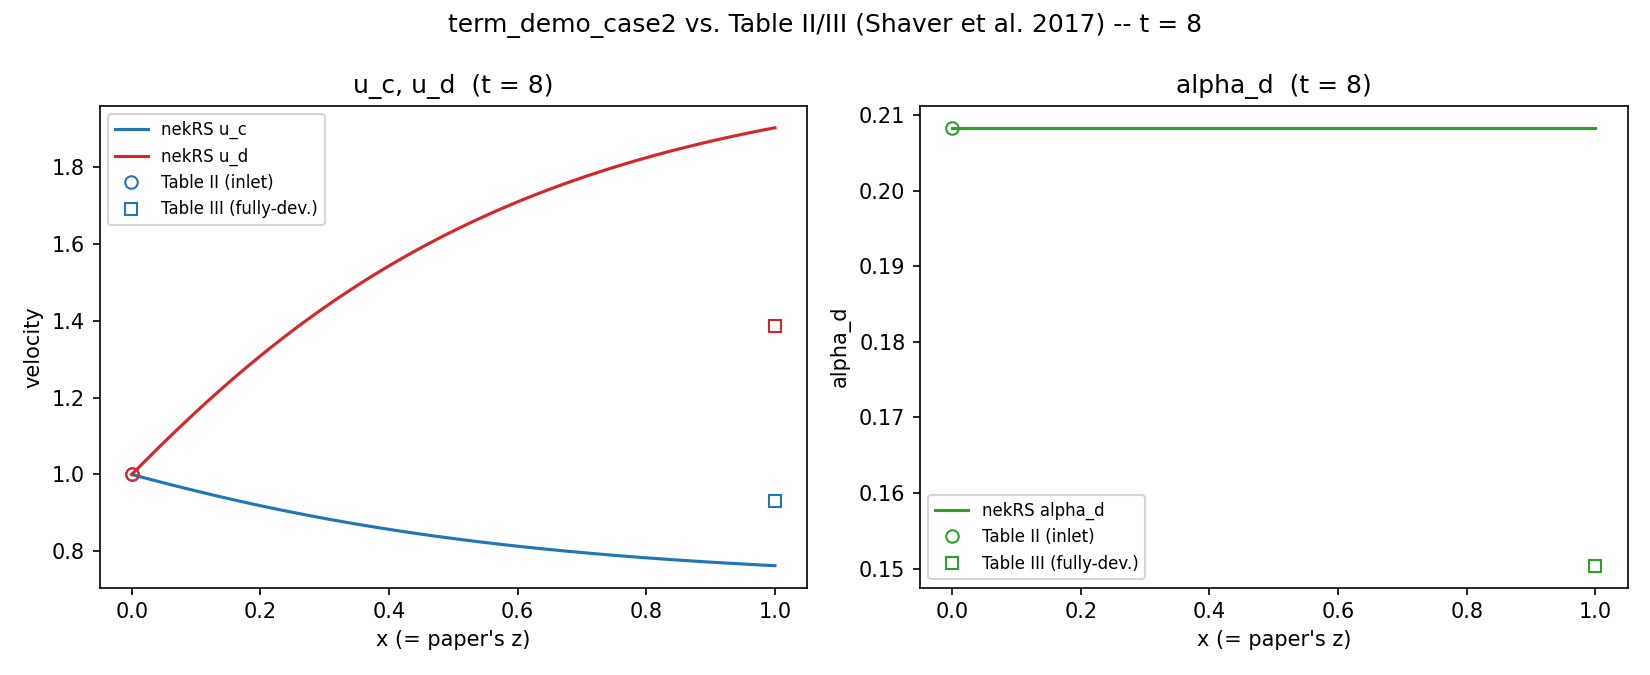
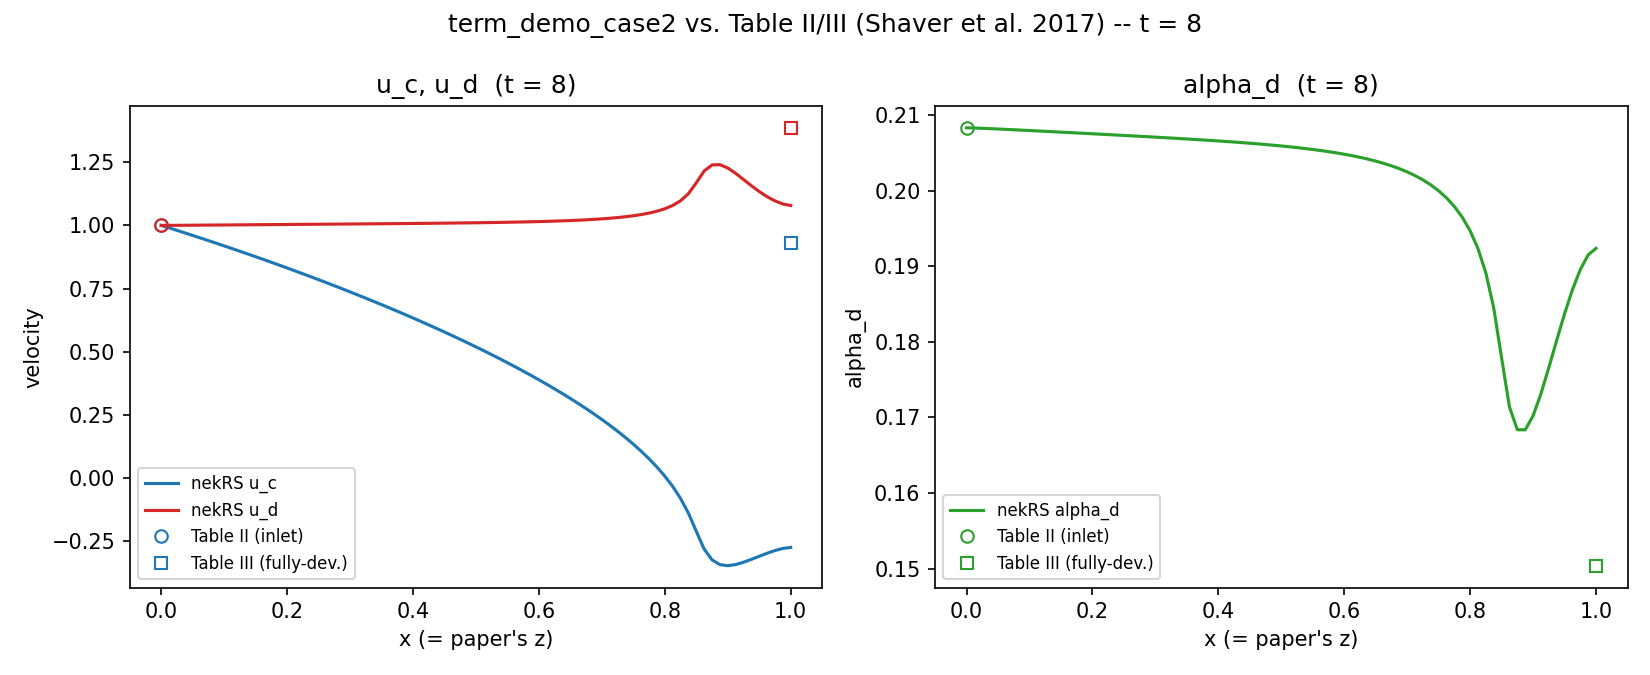
2-phase: case2 eq90 dilation-term retry #2 (Plan K/L); case1 N=9 npz tooling
case2.udf: re-enables the eq 90 dilation term (scalar_t::
userImplicitLinearTerm), this time with the (v2) text's own
instruction followed -- alphaDilationImplicit() now builds a one-off
EXTRAPOLATED u_d (UDF-local EXT-combination of fluid->o_U_phases[1]'s
history) instead of retry #1's lagged/current value. Diagnostic
(DBGDIV) kept for comparison against retry #1's known t~0.226 blowup.

case2.par: extended numSteps 32000->128000 (T=8->T=32) to check
whether the T=8 "success" was a converged steady state (it wasn't --
see run_T32_blowup.log, kept on disk, gitignored like other *.log
files: still blows up, just delayed to t~7.75-8, ~35x later than
retry #1). ioSample 800->1600 for a denser time-history over the
longer run.

New: plot_case2_timehistory.py -- outlet u_c/u_d/alpha_d vs time, plus
a per-phase mass-flux (alpha_k*u_k) conservation check against the
paper's own eq 14/15 (constant mass flux per phase at steady state).
Shows alpha_d*u_d staying almost exactly conserved (the dilation term
working correctly) while alpha_c*u_c drifts badly -- the direct
evidence for the div(u_bar) closure gap documented in
wk_claude/notes/07_algorithm_pseudocode.md.

case1: save_case1_npz.py (new) regenerates n{7,9}_{final,timeseries}.npz
from the current directory's .vts dumps, for plot_case1_figs.py's
N=7-vs-N=9 overlay; re-ran both N after Plan K/L, bit-identical to the
Plan J baseline (outlet error 7.1526e-05 exactly) as expected (case1's
[…]

diff --git a/examples_2phases/term_demo_case2/plot_case2_timehistory.py b/examples_2phases/term_demo_case2/plot_case2_timehistory.py
@@ -1,0 +1,89 @@
+"""term_demo_case2 time-history plot: u_c, u_d, alpha_d at the outlet (x~1) vs time, plus
+each phase's own mass flux (alpha_k*u_k) vs time against its (conserved, per the paper's own
+eq 14/15, d(alpha_k*u_k)/dz=0 in the STEADY state) inlet value -- see wk_claude/notes/
+07_algorithm_pseudocode.md's "Open issues" and README.md's T=32 retry writeup.
+
+Reads whatever case2*.vts dumps are present (works whether the run completed or aborted
+partway through, e.g. run_T32_blowup.log's T=32 attempt, which aborted around t~8-9.6).
+"""
+import glob
+import re
+
+import numpy as np
+import matplotlib
+
+matplotlib.use("Agg")
+import matplotlib.pyplot as plt
+
+from fe_read import load
+
+UC_IN, UD_IN, ALPHAD_IN = 1.0, 1.0, 0.2083
+ALPHAC_IN = 1.0 - ALPHAD_IN
+FLUX_C_IN = ALPHAC_IN * UC_IN
+FLUX_D_IN = ALPHAD_IN * UD_IN
+
+UC_FD, UD_FD, ALPHAD_FD = 0.9318, 1.386, 0.1504
+
+
+def main():
+    files = sorted(glob.glob("case2[0-9][0-9][0-9][0-9][0-9].vts"),
+                    key=lambda f: int(re.search(r"(\d+)\.vts$", f).group(1)))
+    if not files:
+        raise RuntimeError("no case2*.vts dumps found -- run the case first")
+
+    ts, uc_out, ud_out, ad_out = [], [], [], []
+    for f in files:
+        d = load(f)
+        order = np.argsort(d["X"])
+        uc = d["uc"][order]
+        ud = d["ud"][order]
+        ad = d["alphad"][order]
+        ts.append(d["time"])
+        uc_out.append(uc[-1])
+        ud_out.append(ud[-1])
+        ad_out.append(ad[-1])
+
+    ts = np.array(ts)
+    uc_out = np.array(uc_out)
+    ud_out = np.array(ud_out)
+    ad_out = np.array(ad_out)
+    ac_out = 1.0 - ad_out
+    flux_c = ac_out * uc_out
+    flux_d = ad_out * ud_out
+
+    print(f"{len(files)} dumps, t in [{ts[0]:.3f}, {ts[-1]:.3f}]")
+    print(f"outlet at t_final: u_c={uc_out[-1]:.4f} u_d={ud_out[-1]:.4f} alpha_d={ad_out[-1]:.4f}")
+    print(f"mass flux at t_final: alpha_c*u_c={flux_c[-1]:.4f} (inlet {FLUX_C_IN:.4f}), "
+          f"alpha_d*u_d={flux_d[-1]:.4f} (inlet {FLUX_D_IN:.4f})")
+
+    fig, axes = plt.subplots(2, 1, figsize=(7, 8), sharex=True)
+
+    ax = axes[0]
+    ax.plot(ts, uc_out, "-o", color="tab:blue", markersize=3, label="u_c(x=1,t)")
+    ax.plot(ts, ud_out, "-o", color="tab:red", markersize=3, label="u_d(x=1,t)")
+    ax.plot(ts, ad_out, "-o", color="tab:green", markersize=3, label="alpha_d(x=1,t)")
+    ax.axhline(UC_FD, color="tab:blue", ls="--", lw=1, label=f"u_c Table III ({UC_FD})")
+    ax.axhline(UD_FD, color="tab:red", ls="--", lw=1, label=f"u_d Table III ({UD_FD})")
+    ax.axhline(ALPHAD_FD, color="tab:green", ls="--", lw=1, label=f"alpha_d Table III ({ALPHAD_FD})")
+    ax.axhline(0.0, color="k", ls=":", lw=0.8)
+    ax.set_ylabel("u_c, u_d, alpha_d at outlet")
+    ax.set_title("term_demo_case2: outlet time history (eq 90 dilation term, retry #2 / Plan K)")
+    ax.legend(fontsize=8, loc="center left")
+
+    ax = axes[1]
+    ax.plot(ts, flux_c, "-o", color="tab:blue", markersize=3, label="alpha_c*u_c (outlet)")
+    ax.plot(ts, flux_d, "-o", color="tab:red", markersize=3, label="alpha_d*u_d (outlet)")
+    ax.axhline(FLUX_C_IN, color="tab:blue", ls="--", lw=1, label=f"alpha_c*u_c inlet ({FLUX_C_IN:.4f})")
+    ax.axhline(FLUX_D_IN, color="tab:red", ls="--", lw=1, label=f"alpha_d*u_d inlet ({FLUX_D_IN:.4f})")
+    ax.set_xlabel("t")
+    ax.set_ylabel("phase mass flux alpha_k*u_k")
+    ax.set_title("Mass-flux conservation check (eq 14/15: d(alpha_k*u_k)/dz=0 at steady state)")
+    ax.legend(fontsize=8)
+
+    fig.tight_layout()
+    fig.savefig("case2_fig_timehistory.png", dpi=150)
+    print("wrote case2_fig_timehistory.png")
+
+
+if __name__ == "__main__":
+    main()

diff --git a/examples_2phases/term_demo_case1/save_case1_npz.py b/examples_2phases/term_demo_case1/save_case1_npz.py
@@ -1,0 +1,48 @@
+"""Save n{N}_final.npz / n{N}_timeseries.npz from the current directory's case1*.vts dumps,
+for plot_case1_figs.py's N=7-vs-N=9 overlay. Run once per polynomialOrder (edit case1.par,
+rebuild, run, then this script with that N) -- does not rerun the simulation itself.
+
+Usage: python3 save_case1_npz.py <N>   (N = 7 or 9, whatever polynomialOrder the dumps in
+this directory were just produced with)
+"""
+import glob
+import re
+import sys
+
+import numpy as np
+
+from fe_read import load
+
+
+def main():
+    N = sys.argv[1] if len(sys.argv) > 1 else "7"
+
+    files = sorted(glob.glob("case1[0-9][0-9][0-9][0-9][0-9].vts"),
+                    key=lambda f: int(re.search(r"(\d+)\.vts$", f).group(1)))
+    if not files:
+        raise RuntimeError("no case1*.vts dumps found -- run the case first")
+
+    ts, ud_outlet = [], []
+    for f in files:
+        d = load(f)
+        order = np.argsort(d["X"])
+        x = d["X"][order]
+        ud = d["ud"][order]
+        ts.append(d["time"])
+        ud_outlet.append(ud[-1])
+    ts = np.array(ts)
+    ud_outlet = np.array(ud_outlet)
+
+    np.savez(f"n{N}_timeseries.npz", ts=ts, ud_outlet=ud_outlet)
+    print(f"wrote n{N}_timeseries.npz ({len(ts)} points, t in [{ts[0]:.3f}, {ts[-1]:.3f}])")
+
+    d = load(files[-1])
+    order = np.argsort(d["X"])
+    x = d["X"][order]
+    ud = d["ud"][order]
+    np.savez(f"n{N}_final.npz", x=x, ud=ud)
+    print(f"wrote n{N}_final.npz (final time={d['time']:.3f}, ud(outlet)={ud[-1]:.6f})")
+
+
+if __name__ == "__main__":
+    main()
